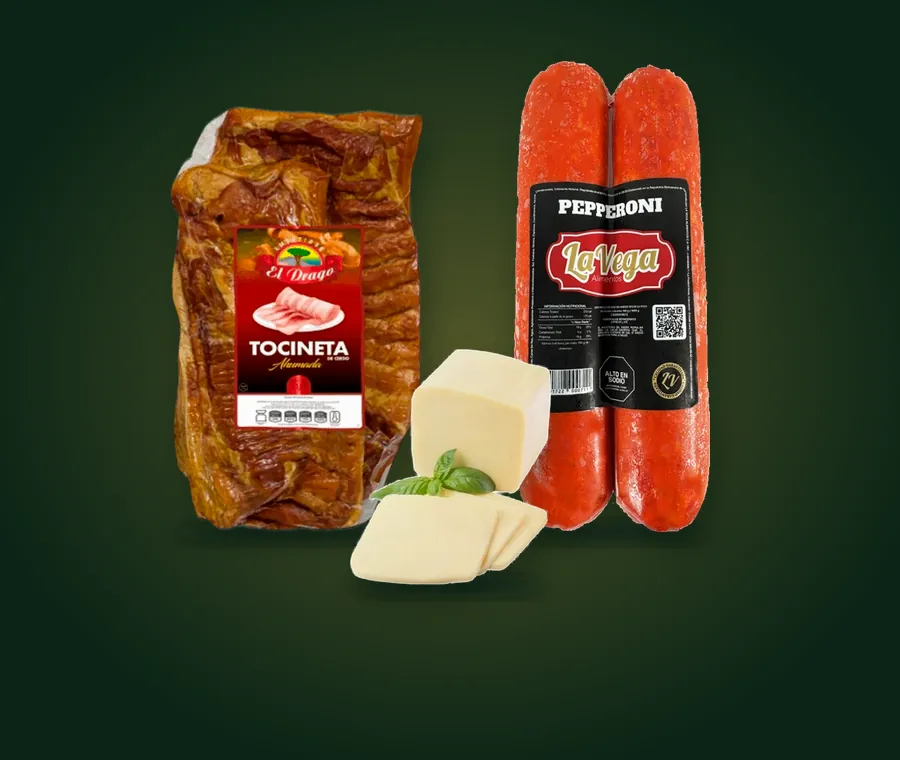
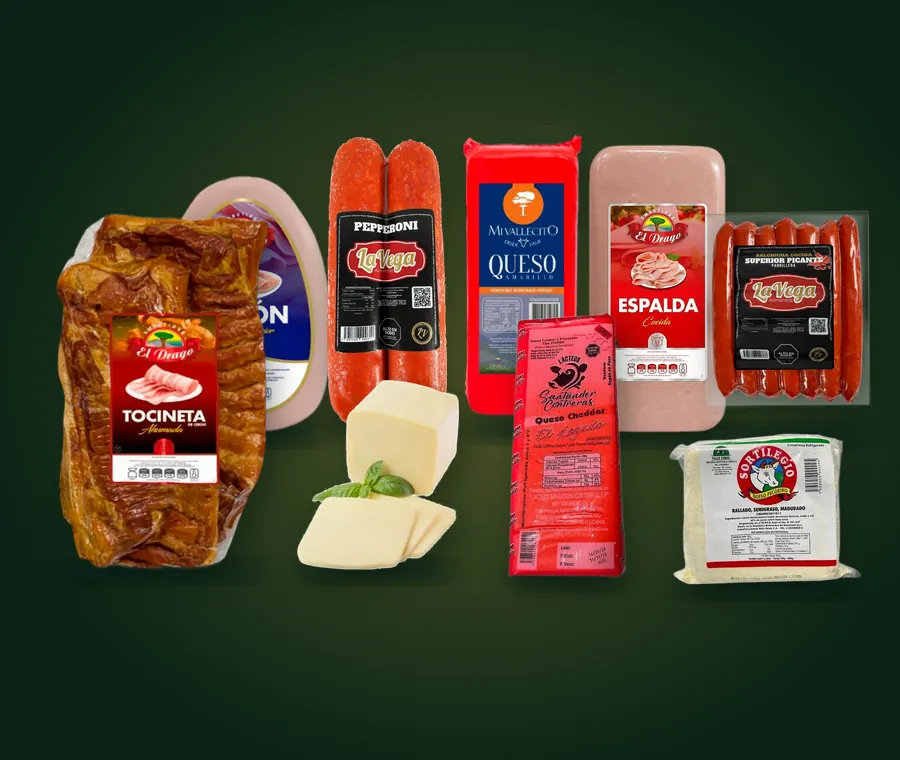
La cabecera como antes, con todos sus productos, y lo de La Vega añadido.
El dueño no quería quitarle productos («me gustaba como estaba antes»): la
foto de arriba vuelve a llevar los de siempre, con el pepperoni y la
salchicha picante parrillera de La Vega en la fila de atrás. La foto lleva
?v= para que el teléfono no siga enseñando la guardada.

diff --git a/scripts/fotos-web.ts b/scripts/fotos-web.ts
@@ -30,10 +30,9 @@ const ORO = "#f0c24f";
 const CREMA = "#f3e7cc";
 
 const ESCENAS: Escena[] = [
-  // La de arriba, en la pantalla ancha: el texto va a la izquierda, sobre el verde; los productos, a la derecha. Solo
-  // tres, los de siempre de una hamburguesería y una pizzería (la mozzarella, la tocineta y el pepperoni), grandes: el
-  // dueño, 18/11/2026: «lo que no me mata es la cabecera principal, porque vas a terminar poniendo todos los productos».
-  // Lo demás sale en la foto de su familia; aquí no se añade nada más.
+  // La de arriba, en la pantalla ancha: el texto va a la izquierda, sobre el verde; los productos, a la derecha, en dos
+  // filas. Desde el 18/11/2026, con lo de La Vega (el pepperoni y el chorizo picante) en la fila de atrás: el dueño quería
+  // la de antes, con todos sus productos, y lo de La Vega añadido (una prueba con solo tres no le gustó).
   {
     archivo: "public/portada/heroe.webp",
     ancho: 1920,
@@ -41,12 +40,19 @@ const ESCENAS: Escena[] = [
     fondo: VERDE_HONDO,
     luz: "rgba(240, 194, 79, 0.30)",
     piezas: [
-      { foto: "tocineta", x: 0.625, apoyo: 0.88, alto: 0.6 },
-      { foto: "pepperoni-la-vega", x: 0.815, apoyo: 0.88, alto: 0.66 },
-      { foto: "mozzarella", x: 0.72, apoyo: 0.95, alto: 0.36 },
+      // Atrás.
+      { foto: "pepperoni-la-vega", x: 0.655, apoyo: 0.73, alto: 0.44 },
+      { foto: "queso-amarillo-vallecito", x: 0.735, apoyo: 0.735, alto: 0.44 },
+      { foto: "jamon-de-espalda", x: 0.82, apoyo: 0.74, alto: 0.42 },
+      { foto: "salchicha-picante-la-vega", x: 0.905, apoyo: 0.745, alto: 0.36 },
+      // Delante: la tocineta, más grande que el jamón, como es (el dueño, 15/11/2026).
+      { foto: "tocineta", x: 0.545, apoyo: 0.93, alto: 0.54 },
+      { foto: "mozzarella", x: 0.665, apoyo: 0.925, alto: 0.3 },
+      { foto: "queso-amarillo", x: 0.77, apoyo: 0.93, alto: 0.4 },
+      { foto: "pecorino-sortilegio", x: 0.875, apoyo: 0.94, alto: 0.25 },
     ],
   },
-  // En el teléfono: los mismos tres arriba, en el centro; abajo, el verde donde monta el título.
+  // En el teléfono: los productos arriba, en el centro; abajo, el verde donde monta el título.
   {
     archivo: "public/portada/heroe-movil.webp",
     ancho: 900,
@@ -54,9 +60,15 @@ const ESCENAS: Escena[] = [
     fondo: VERDE_HONDO,
     luz: "rgba(240, 194, 79, 0.32)",
     piezas: [
-      { foto: "tocineta", x: 0.33, apoyo: 0.7, alto: 0.56 },
-      { foto: "pepperoni-la-vega", x: 0.68, apoyo: 0.7, alto: 0.62 },
-      { foto: "mozzarella", x: 0.5, apoyo: 0.77, alto: 0.31 },
+      { foto: "jamon-de-pierna", x: 0.27, apoyo: 0.57, alto: 0.34 },
+      { foto: "pepperoni-la-vega", x: 0.43, apoyo: 0.56, alto: 0.38 },
+      { foto: "queso-amarillo-vallecito", x: 0.58, apoyo: 0.565, alto: 0.4 },
+      { foto: "jamon-de-espalda", x: 0.73, apoyo: 0.57, alto: 0.38 },
+      { foto: "salchicha-picante-la-vega", x: 0.875, apoyo: 0.575, alto: 0.31 },
+      { foto: "tocineta", x: 0.18, apoyo: 0.75, alto: 0.47 },
+      { foto: "mozzarella", x: 0.42, apoyo: 0.75, alto: 0.25 },
+      { foto: "queso-amarillo", x: 0.63, apoyo: 0.76, alto: 0.35 },
+      { foto: "pecorino-sortilegio", x: 0.85, apoyo: 0.77, alto: 0.2 },
     ],
   },
   // Las familias y las colecciones, en 4:3. La misma foto sale en la tarjeta (cuadrada en el teléfono, apaisada en la

diff --git a/src/app/page.tsx b/src/app/page.tsx
@@ -84,9 +84,10 @@ export default async function PaginaInicio() {
 
       <main id="contenido" className={estilos.portada}>
         <section className={estilos.heroe} aria-labelledby="titulo-portada">
+          {/* El «?v=» cambia cada vez que se rehace la foto (npm run fotos-web): el teléfono la guarda un día, y sin él se seguiría viendo la de antes. */}
           <picture className={estilos.heroeFoto}>
-            <source media="(min-width: 900px)" srcSet="/portada/heroe.webp" />
-            <img src="/portada/heroe-movil.webp" alt="" width={900} height={760} fetchPriority="high" />
+            <source media="(min-width: 900px)" srcSet="/portada/heroe.webp?v=20261118" />
+            <img src="/portada/heroe-movil.webp?v=20261118" alt="" width={900} height={760} fetchPriority="high" />
           </picture>
           <div className={estilos.heroeDentro}>
             <div className={estilos.heroeTexto}>

diff --git a/public/familias/CREDITOS.md b/public/familias/CREDITOS.md
@@ -8,9 +8,9 @@ ver `publicidad/fotos/CREDITOS.md`. La única que no es suya es la del medio car
 «Eggs, hen's egg», de Pixabay, https://pixabay.com/photos/egg-2913054/ (licencia de contenido de Pixabay: uso libre, también
 comercial, sin atribución).
 
-- `portada/heroe.webp`, `portada/heroe-movil.webp`: desde el 18/11/2026, solo tres productos, grandes: la tocineta El
-  Drago, la mozzarella y el pepperoni de La Vega (foto de la web de La Vega, ver `publicidad/fotos/CREDITOS.md`), sobre
-  verde. El dueño no quería una cabecera con todos los productos; lo demás sale en la foto de su familia.
+- `portada/heroe.webp`, `portada/heroe-movil.webp`: jamón de pierna, espalda y tocineta El Drago, queso amarillo Mi
+  Vallecito, queso cheddar El Legado, mozzarella y pecorino Sortilegio, y desde el 18/11/2026 el pepperoni y la salchicha
+  picante parrillera de La Vega (fotos de La Vega, ver `publicidad/fotos/CREDITOS.md`), sobre verde.
 - `familias/embutidos.webp` y `familias/pizzeria.webp` llevan también lo de La Vega (el pepperoni y un chorizo), con las
   fotos de La Vega Alimentos.
 - `familias/quesos.webp`, `embutidos.webp`, `lacteos.webp`, `huevos.webp`, `burger.webp`, `pizzeria.webp`: los productos de

diff --git a/README.md b/README.md
@@ -1703,11 +1703,11 @@ Binance y otro.
   la dirección y la ubicación para el próximo pedido. Las cuentas, con
   pruebas, en `src/lib/delivery.ts`; la portada, «Cómo comprar» y el pie
   dicen que hay delivery.
-- **La cabecera de la portada, solo tres productos** (el dueño, 18/11/2026:
-  «lo que no me mata es la cabecera principal, porque vas a terminar
-  poniendo todos los productos»): la tocineta, la mozzarella y el pepperoni
-  de La Vega, grandes. No se le añade nada más: cada producto sale en la foto
-  de su familia (Embutidos y Pizzería llevan lo de La Vega).
+- **La cabecera de la portada** lleva todos los productos de siempre y,
+  desde el 18/11/2026, el pepperoni y la salchicha picante parrillera de La
+  Vega atrás (una prueba con solo tres productos no le gustó al dueño: «me
+  gustaba como estaba antes»). Su foto lleva `?v=` en `src/app/page.tsx`:
+  al rehacerla, se cambia, o el teléfono sigue enseñando la de antes un día.
 - **Las fotos** de la portada y de las familias (desde el 15/11/2026, sin el
   Kemmental, que no se vende: va el Mi Vallecito; y la tocineta más grande
   que los jamones, como es) son, desde el 13/11/2026,
